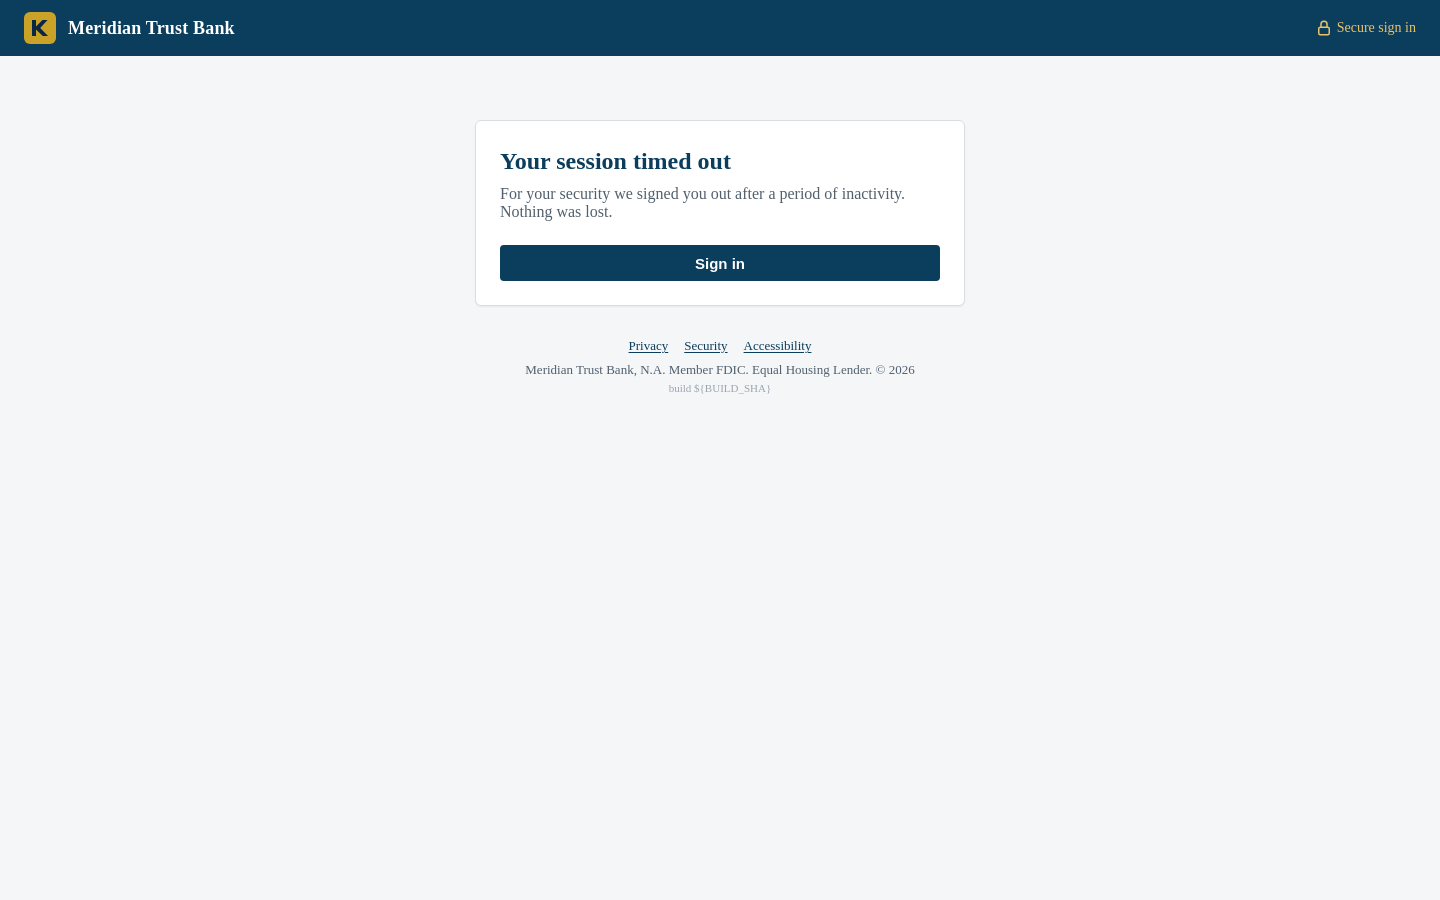
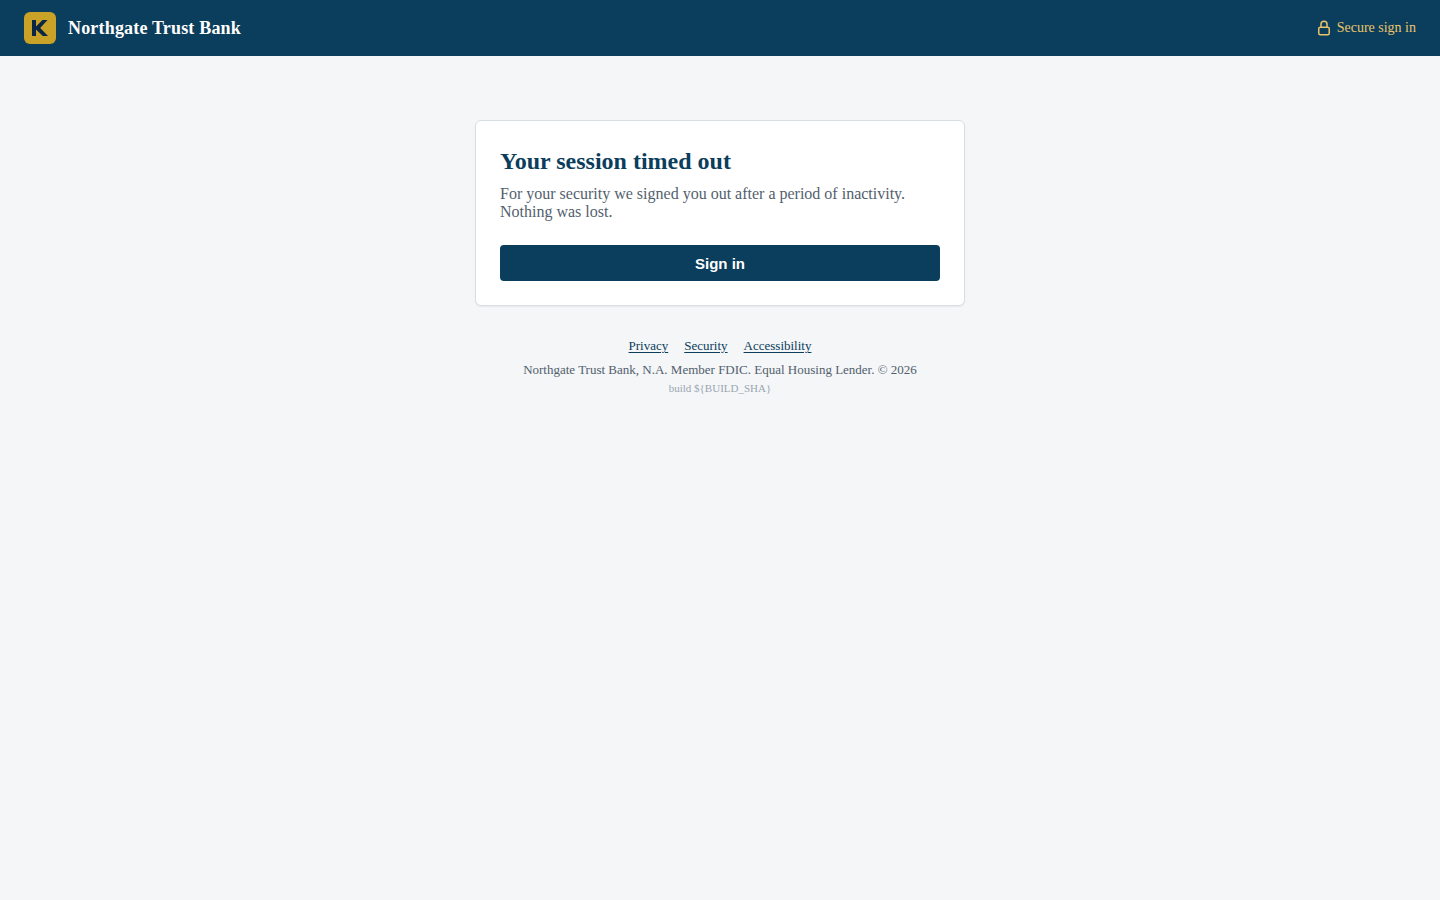
PLAT-2620 recapture the screenshot gallery with Northgate branding

diff --git a/docs/SCREENSHOTS.md b/docs/SCREENSHOTS.md
@@ -36,7 +36,7 @@ Accounts still lists the two fixture accounts.
 
 ## Northgate Business ([northgate-business-web](https://github.com/rhys-j-williams/northgate-business-web))
 
-Small business banking, RxJS 6, TSLint, Node 14. Signed in as the Redwing Electrical administrator
+Small business banking, RxJS 6, TSLint, Node 14. Signed in as the Pinnacle Ridge Surveying administrator
 fixture. Wires, approvals and payroll come from the business BFF on port 4501.
 
 | | |
@@ -55,7 +55,7 @@ fixture. Wires, approvals and payroll come from the business BFF on port 4501.
 Login, MFA, device trust and recovery. Keystone ships a `Content-Security-Policy` meta with
 `style-src 'self'` and no `unsafe-inline` (KEY-1733, GIS-1802). Under `ng serve` Angular 15 still
 injects component styles as inline `<style>` tags, so a plain dev-server visit renders unstyled;
-these captures were taken with the CSP meta removed at the proxy for the capture run only.
+these captures were taken with the CSP meta tag and response header removed at the proxy for the capture run only.
 Production builds are unaffected; the dev-server behaviour is tracked as KEY-1790.
 
 | | |
